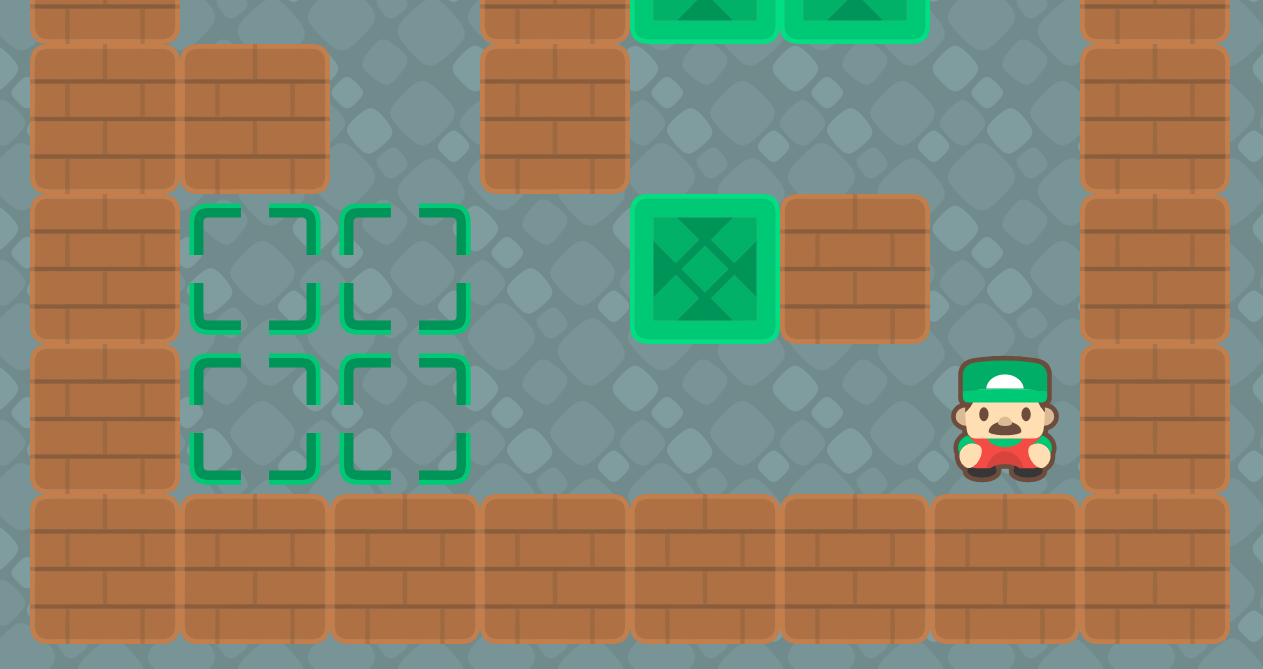
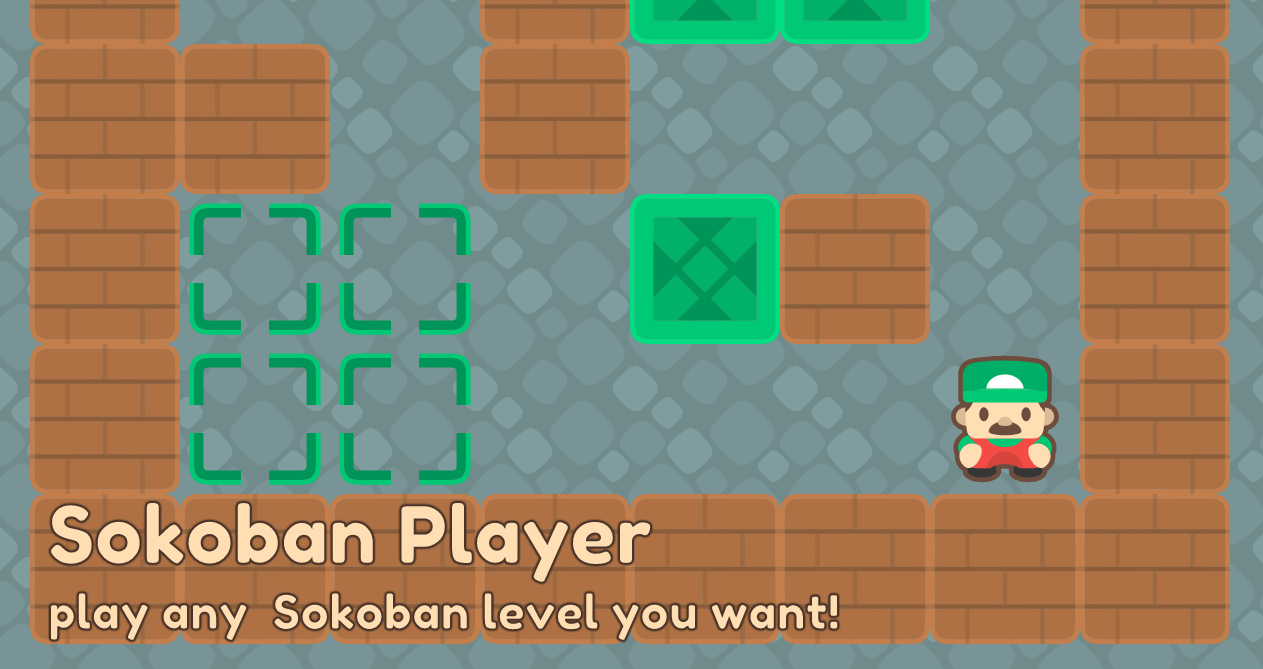
test twitter card

Changed region(s): [[0.0309, 0.7474, 0.6793, 0.9567]]

diff --git a/public/index.html b/public/index.html
@@ -17,7 +17,7 @@
     <meta name="twitter:site" content="@krzysu" />
     <meta name="twitter:title" content="Sokoban Player - play any Sokoban level you want" />
     <meta name="twitter:description" content="The best experience to play any Sokoban level you want!" />
-    <meta name="twitter:image" content="/preview.png" />
+    <meta name="twitter:image" content="https://sokoban-player.netlify.com/preview.png" />
     <link rel="shortcut icon" href="%PUBLIC_URL%/favicon.ico">
     <link href="https://fonts.googleapis.com/css?family=Fredoka+One" rel="stylesheet">
     <link rel="apple-touch-icon" sizes="180x180" href="/apple-touch-icon.png">

diff --git a/README.md b/README.md
@@ -29,13 +29,12 @@ Pull requests are welcome!
 
 ## TODO
 
-- SEO
 - rewrite rendering
+- touch support
 - scale to screen size
 - HUD
 - box on dot change color
 - player animation
-- touch support
 - more stats: remaining boxes count, box pushes
 - level solver
 - make sure it works cross browser (safari rendering bug, IE not rendering at all)
